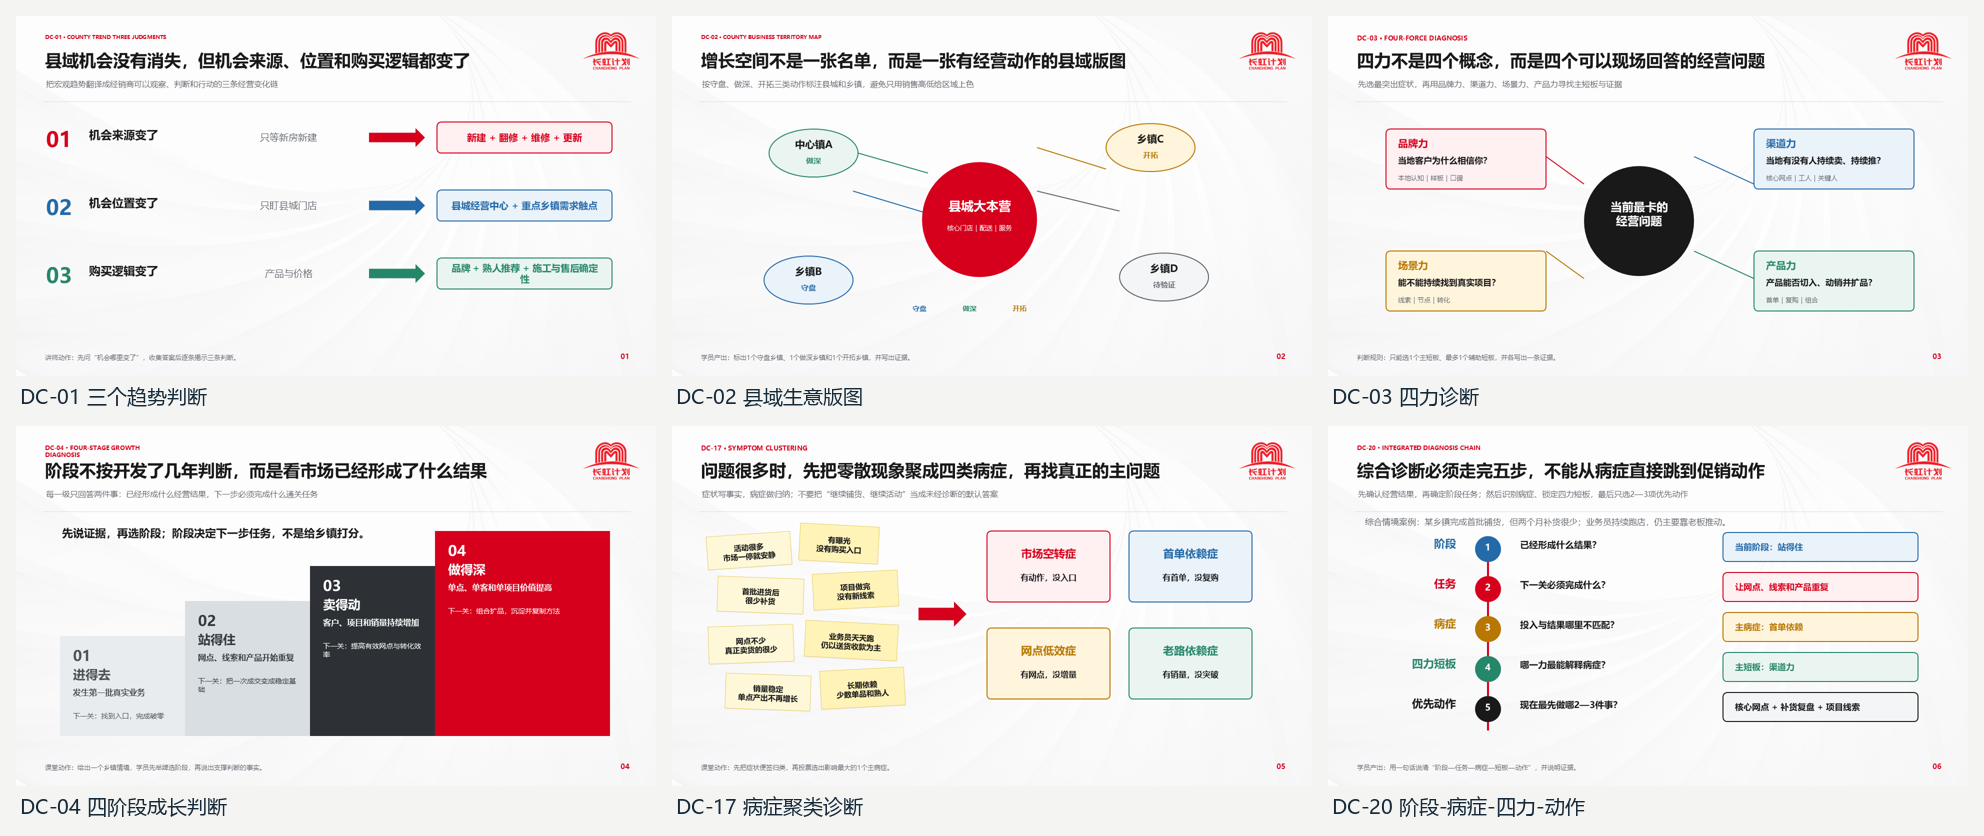
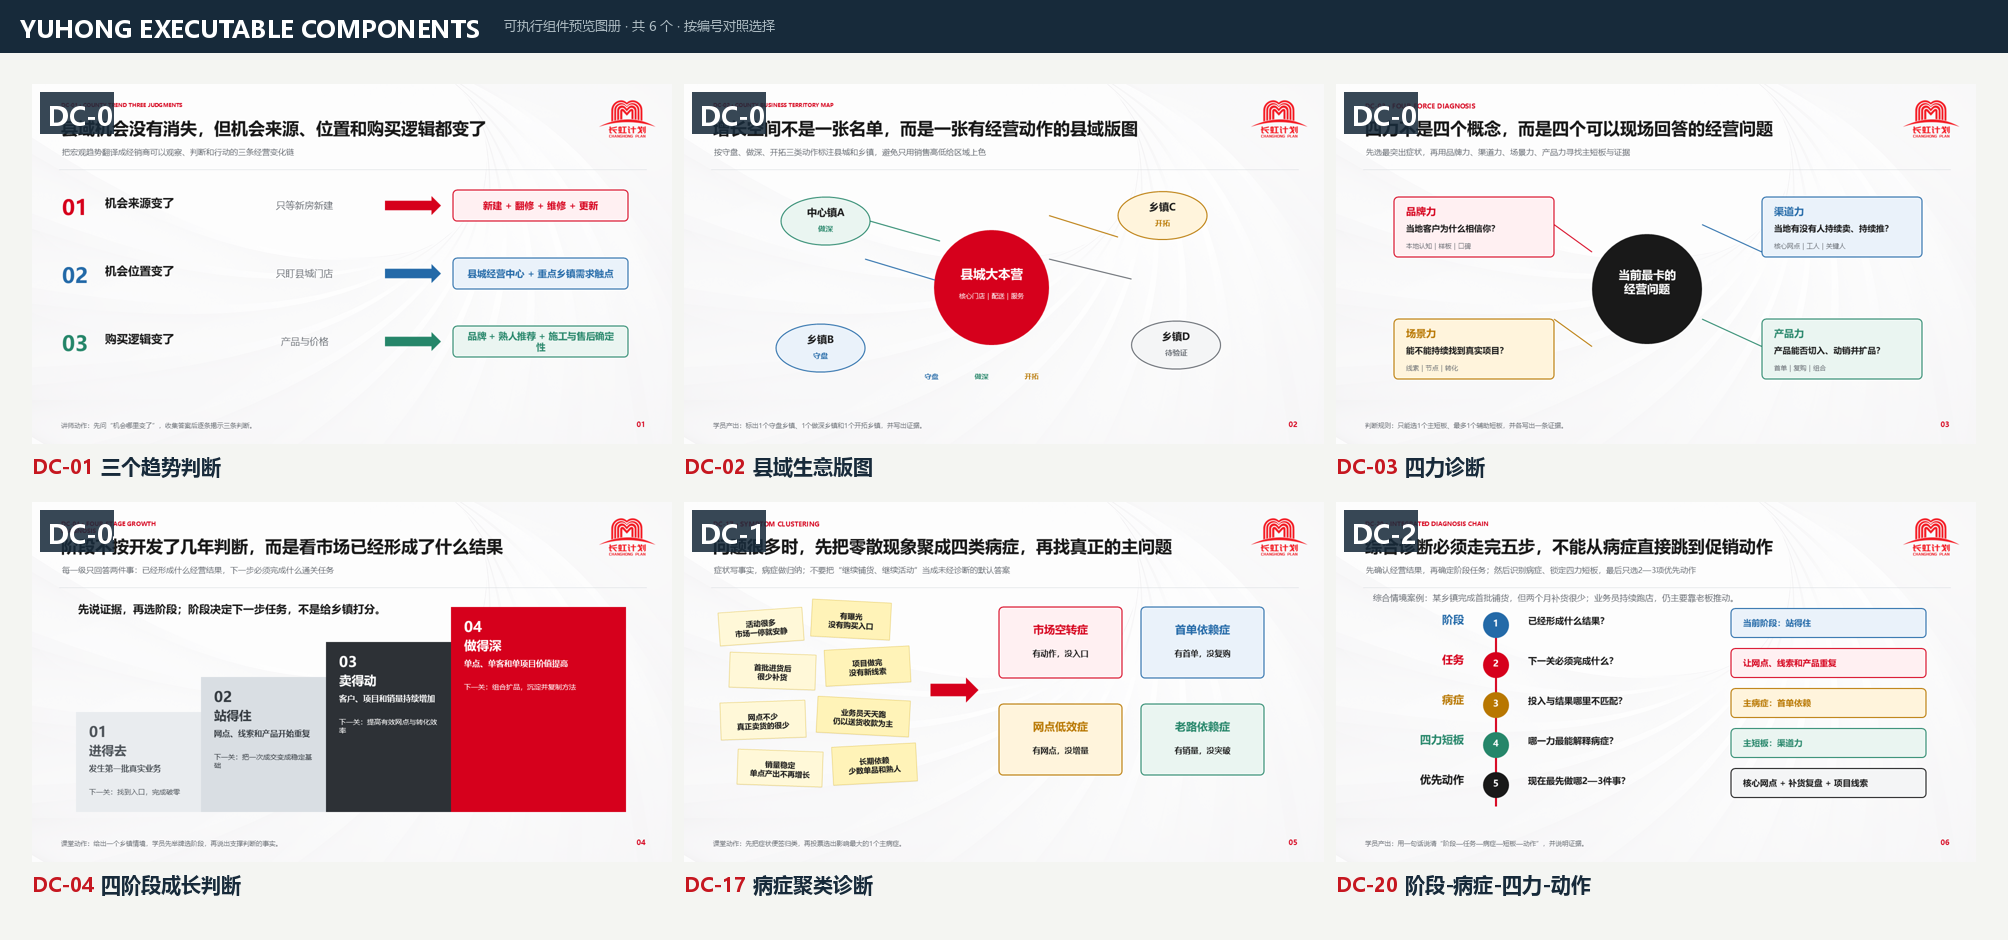
Add anti-hallucination component selection rules and large-label contact sheet

diff --git a/domains/yuhong/assets/components/build-contact-sheet.py b/domains/yuhong/assets/components/build-contact-sheet.py
@@ -1,0 +1,80 @@
+# Build the large-label contact sheet used for one-image component selection by in-PowerPoint agents.
+# Each cell: preview thumbnail + big DC-number badge (top-left) + big name label (bottom).
+# Run after render-component-previews.ps1 so the sheet always matches the rendered previews.
+import os
+from PIL import Image, ImageDraw, ImageFont
+
+BASE = os.path.dirname(os.path.abspath(__file__))
+PREVIEWS = os.path.join(BASE, 'previews')
+
+COMPONENTS = [
+    ('DC-01', '三个趋势判断', 'county-trend-three-judgments'),
+    ('DC-02', '县域生意版图', 'county-business-territory-map'),
+    ('DC-03', '四力诊断', 'four-force-diagnosis'),
+    ('DC-04', '四阶段成长判断', 'four-stage-growth-diagnosis'),
+    ('DC-17', '病症聚类诊断', 'symptom-clustering-core-problem'),
+    ('DC-20', '阶段-病症-四力-动作', 'integrated-stage-symptom-force-action-diagnosis'),
+]
+
+FONT_BIG = 'C:/Windows/Fonts/msyhbd.ttc'   # Microsoft YaHei Bold
+FONT_REG = 'C:/Windows/Fonts/msyh.ttc'     # Microsoft YaHei
+try:
+    font_badge = ImageFont.truetype(FONT_BIG, 26)
+    font_label = ImageFont.truetype(FONT_BIG, 20)
+    font_title = ImageFont.truetype(FONT_BIG, 24)
+    font_hint = ImageFont.truetype(FONT_REG, 13)
+except Exception:
+    font_badge = font_label = font_title = font_hint = ImageFont.load_default()
+
+INK = (23, 42, 58)       # #172A3A
+RED = (198, 23, 32)      # #C61720
+PAPER = (244, 245, 242)
+GREY = (102, 116, 124)
+
+COLS, ROWS = 3, 2
+THUMB_W, THUMB_H = 640, 360
+PAD = 12
+LABEL_H = 46
+TITLE_H = 52
+MARGIN = 20
+
+grid_w = COLS * THUMB_W + (COLS + 1) * PAD + 2 * MARGIN
+grid_h = TITLE_H + MARGIN + ROWS * (THUMB_H + LABEL_H) + (ROWS + 1) * PAD + MARGIN
+
+sheet = Image.new('RGB', (grid_w, grid_h), PAPER)
+draw = ImageDraw.Draw(sheet)
+
+# Title bar
+draw.rectangle([0, 0, grid_w, TITLE_H], fill=INK)
+draw.text((MARGIN, 12), 'YUHONG EXECUTABLE COMPONENTS', fill=(255, 255, 255), font=font_title)
+tw = draw.textlength('YUHONG EXECUTABLE COMPONENTS', font=font_title)
+draw.text((MARGIN + tw + 24, 17), '可执行组件预览图册 · 共 6 个 · 按编号对照选择', fill=(174, 188, 195), font=font_hint)
+
+for idx, (code, name, cid) in enumerate(COMPONENTS):
+    r, c = divmod(idx, COLS)
+    src = os.path.join(PREVIEWS, 'component-%02d.png' % (idx + 1))
+    if not os.path.exists(src):
+        raise FileNotFoundError(src)
+    im = Image.open(src).convert('RGB').resize((THUMB_W, THUMB_H))
+    x = MARGIN + PAD + c * (THUMB_W + PAD)
+    y = TITLE_H + MARGIN + PAD + r * (THUMB_H + LABEL_H + PAD)
+
+    sheet.paste(im, (x, y))
+
+    # Big DC badge on top-left of the thumbnail
+    badge_w = 74
+    badge_h = 42
+    badge = Image.new('RGBA', (badge_w, badge_h), (23, 42, 58, 220))
+    bd = ImageDraw.Draw(badge)
+    bd.text((8, 6), code, fill=(255, 255, 255), font=font_badge)
+    sheet.paste(badge, (x + 8, y + 8), badge)
+
+    # Name label under the thumbnail
+    ly = y + THUMB_H + 8
+    draw.text((x, ly), code + ' ', fill=RED, font=font_label)
+    cw = draw.textlength(code + ' ', font=font_label)
+    draw.text((x + cw, ly), name, fill=INK, font=font_label)
+
+out = os.path.join(PREVIEWS, 'component-store-render-sheet.png')
+sheet.save(out)
+print('contact sheet:', out, sheet.size)

diff --git a/domains/yuhong/references/decision-component-store.md b/domains/yuhong/references/decision-component-store.md
@@ -6,6 +6,10 @@ Use this store before choosing visual layouts. A Decision Component is a reusabl
 
 Six executable components have rendered previews at `assets/components/previews/component-01.png` ... `component-06.png`, plus a grid contact sheet at `assets/components/previews/component-store-render-sheet.png`. Look at the rendered preview before selecting or adapting a component; the text card alone does not convey layout, density, or capacity. Previews are machine-rendered from the source deck: after any change to `yuhong-county-course-components-branded.pptx` or its master, re-run `assets/components/render-component-previews.ps1` so the previews do not go stale. Each component card below lists its preview file.
 
+In an in-PowerPoint agent session, use the `?raw=true` URL form for preview images: `https://github.com/swefner/company-ppt-skills/blob/main/<path>?raw=true`. Verified 2026-08-14 in a real PowerPoint agent session: `raw.githubusercontent.com` timed out on first fetch, while the `?raw=true` form read successfully. If one URL form fails, retry with the other.
+
+Agent selection rule (anti-hallucination, applies to every in-PowerPoint agent session): read the single contact sheet `assets/components/previews/component-store-render-sheet.png` — one image listing all six components with large DC-number badges — and for every candidate component describe the layout detail actually seen in that image (e.g. "center problem with four surrounding lenses"). If the image cannot be read, write 「图片未读取」beside that component and fall back to the text card only. Never claim a preview was viewed when it was not actually opened, and never invent layout details. This rule exists because a 2026-08-14 in-PowerPoint test showed hallucinated layout descriptions for four components whose preview images were never fetched.
+
 ## Selection Chain
 
 `Page role -> teaching question -> learner decision/output -> available evidence -> Decision Component -> visual expression`

diff --git a/bootstrap/powerpoint-chatgpt-prompt.md b/bootstrap/powerpoint-chatgpt-prompt.md
@@ -14,11 +14,17 @@ https://github.com/swefner/company-ppt-skills
 
 请先进入 Guided Mode，不要直接生成或修改 PPT。
 
+组件选择铁律（必须遵守）：
+- 选择组件前，先读取该领域组件库的 contact sheet 预览图册（一张图列出全部组件，如 domains/yuhong/assets/components/previews/component-store-render-sheet.png，地址用 https://github.com/swefner/company-ppt-skills/blob/main/<路径>?raw=true 形式）。
+- 对每个候选组件，描述你从图中实际看到的布局细节（如"中心问题 + 四个环绕透镜"）。
+- 图片读取失败时，必须写「图片未读取」，仅基于文字卡片判断。
+- 禁止声称"已查看预览图"却未实际打开图片，禁止编造组件外观；描述与组件卡片矛盾时必须重新核对。
+
 你的第一步只输出：
 1. 识别到的客户 / 行业 / PPT 类型 / 受众
 2. 推荐使用的 domain skill
 3. 推荐使用的模板
-4. 推荐使用的组件或组件库
+4. 推荐使用的组件或组件库（附：每个组件从预览图看到的布局描述或「图片未读取」）
 5. 当前还缺哪些数据或素材
 6. 推荐大纲
 

diff --git a/shared/component-selection.md b/shared/component-selection.md
@@ -25,3 +25,14 @@ Use domain components first:
 - Yuhong: use `domains/yuhong/references/decision-component-store.md` first, then `component-cards.md` only for visual expression.
 
 Use shared rules only when the domain does not have a more specific rule.
+
+## Anti-Hallucination Rule
+
+Before recommending a component in any agent session:
+
+1. Read the component store's contact sheet — one image listing all candidate components — and describe the layout detail you actually see for each candidate.
+2. If any preview image cannot be read, write 「图片未读取」beside that component and base the choice on the text card only.
+3. Never claim「已查看预览图」for an image that was not actually opened, and never invent layout details.
+4. If your candidate's described layout contradicts its text card (e.g. a four-lens diagnosis described as a 2x2 matrix), re-check the source instead of proceeding.
+
+This rule is mandatory: a real in-PowerPoint agent test showed four of five selected components were described from imagination while the agent claimed the previews were viewed.
